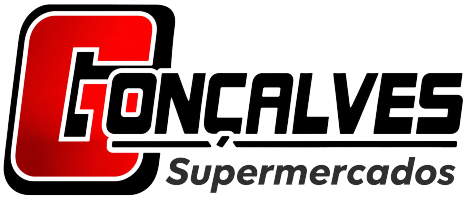
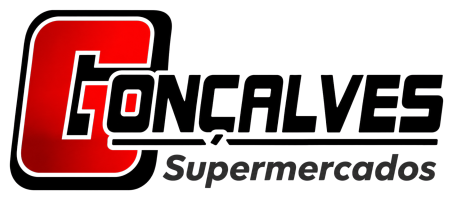
Gonçalves e Grupo NC refeitos a partir dos arquivos originais

Changed region(s): [[0.0, 0.0, 1.0, 0.99], [0.5563, 0.48, 0.5872, 0.51]]

diff --git a/index.html b/index.html
@@ -9,7 +9,7 @@
   <meta name="theme-color" content="#010E22">
   <link rel="icon" href="img/icone.png" type="image/png">
   <link rel="preload" href="fonts/inter-tight-latin-wght-normal.woff2" as="font" type="font/woff2" crossorigin>
-  <link rel="stylesheet" href="css/v2.css?v=18">
+  <link rel="stylesheet" href="css/v2.css?v=19">
   <script>document.documentElement.classList.add('js');</script>
 </head>
 <body>
@@ -94,7 +94,7 @@
       <h2 class="rotulo" id="clientes-titulo">Empresas que confiam na Hoops</h2>
       <div class="clientes__faixa">
         <div class="clientes__trilho">
-          <ul class="clientes__lista"><li style="--h:64px"><img src="img/clientes/vieira.png" alt="Vieira Supermercados" width="276" height="104" decoding="async"><img class="cor" src="img/clientes-cor/vieira.png" alt="" width="356" height="190" loading="lazy" decoding="async"></li><li style="--h:68px"><img src="img/clientes/goncalves.png" alt="Gonçalves Supermercados" width="385" height="160" decoding="async"><img class="cor" src="img/clientes-cor/goncalves.png" alt="" width="467" height="200" loading="lazy" decoding="async"></li><li style="--h:69px"><img src="img/clientes/ultra-popular.png" alt="Drogarias Ultra Popular" width="368" height="160" decoding="async"><img class="cor" src="img/clientes-cor/ultra-popular.png" alt="" width="460" height="200" loading="lazy" decoding="async"></li><li style="--h:47px"><img src="img/clientes/centrofarma.png" alt="Centrofarma" width="813" height="160" decoding="async"><img class="cor" src="img/clientes-cor/centrofarma.png" alt="" width="924" height="200" loading="lazy" decoding="async"></li><li style="--h:70px"><img src="img/clientes/macropel.png" alt="Macropel" width="360" height="160" decoding="async"><img class="cor" src="img/clientes-cor/macropel.png" alt="" width="414" height="200" loading="lazy" decoding="async"></li><li style="--h:49px"><img src="img/clientes/goulart.png" alt="Grupo Goulart Agropecuária" width="613" height="133" decoding="async"><img class="cor" src="img/clientes-cor/goulart.png" alt="" width="628" height="159" loading="lazy" decoding="async"></li><li style="--h:70px"><img src="img/clientes/ponte-alta.png" alt="Grupo Ponte Alta" width="177" height="160" decoding="async"><img class="cor" src="img/clientes-cor/ponte-alta.png" alt="" width="220" height="200" loading="lazy" decoding="async"></li><li style="--h:70px"><img src="img/clientes/jjd.png" alt="Grupo JJD Agropecuária e Transporte" width="185" height="160" decoding="async"><img class="cor" src="img/clientes-cor/jjd.png" alt="" width="231" height="200" loading="lazy" decoding="async"></li><li style="--h:70px"><img src="img/clientes/grupo-nc.png" alt="Grupo NC" width="760" height="408" decoding="async"><img class="cor" src="img/clientes-cor/grupo-nc.png" alt="" width="760" height="408" loading="lazy" decoding="async"></li><li style="--h:51px"><img src="img/clientes/guapore.png" alt="Guaporé Vidros" width="684" height="160" decoding="async"><img class="cor" src="img/clientes-cor/guapore.png" alt="" width="644" height="200" loading="lazy" decoding="async"></li><li style="--h:41px"><img src="img/clientes/vidroauto.png" alt="VidroAuto" width="1034" height="160" decoding="async"><img class="cor" src="img/clientes-cor/vidroauto.png" alt="" width="1200" height="200" loading="lazy" decoding="async"></li><li style="--h:64px"><img src="img/clientes/iz-auto.png" alt="IZ Auto Peças" width="427" height="160" decoding="async"><img class="cor" src="img/clientes-cor/iz-auto.png" alt="" width="468" height="200" loading="lazy" decoding="async"></li><li style="--h:70px"><img src="img/clientes/svi.png" alt="SVI" width="333" height="160" decoding="async"><img class="cor" src="img/clientes-cor/svi.png" alt="" width="396" height="200" loading="lazy" decoding="async"></li><li style="--h:70px"><img src="img/clientes/amaretto.png" alt="Amaretto" width="318" height="160" decoding="async"><img class="cor" src="img/clientes-cor/amaretto.png" alt="" width="380" height="200" loading="lazy" decoding="async"></li><li style="--h:61px"><img src="img/clientes/unicorp.png" alt="Unicorp" width="470" height="160" decoding="async"><img class="cor" src="img/clientes-cor/unicorp.png" alt="" width="587" height="200" loading="lazy" decoding="async"></li><li style="--h:48px"><img src="img/clientes/seglog.png" alt="Seglog Segurança Eletrônica" width="313" height="66" decoding="async"><img class="cor" src="img/clientes-cor/seglog.png" alt="" width="329" height="82" loading="lazy" decoding="async"></li></ul><ul class="clientes__lista" aria-hidden="true"><li style="--h:64px"><img src="img/clientes/vieira.png" alt="" width="276" height="104" decoding="async"><img class="cor" src="img/clientes-cor/vieira.png" alt="" width="356" height="190" loading="lazy" decoding="async"></li><li style="--h:68px"><img src="img/clientes/goncalves.png" alt="" width="385" height="160" decoding="async"><img class="cor" src="img/clientes-cor/goncalves.png" alt="" width="467" height="200" loading="lazy" decoding="async"></li><li style="--h:69px"><img src="img/clientes/ultra-popular.png" alt="" width="368" height="160" decoding="async"><img class="cor" src="img/clientes-cor/ultra-popular.png" alt="" width="460" height="200" loading="lazy" decoding="async"></li><li style="--h:47px"><img src="img/clientes/centrofarma.png" alt="" width="813" height="160" decoding="async"><img class="cor" src="img/clientes-cor/centrofarma.png" alt="" width="924" height="200" loading="lazy" decoding="async"></li><li style="--h:70px"><img src="img/clientes/macropel.png" alt="" width="360" height="160" decoding="async"><img class="cor" src="img/clientes-cor/macropel.png" alt="" width="414" height="200" loading="lazy" decoding="async"></li><li style="--h:49px"><img src="img/clientes/goulart.png" alt="" width="613" height="133" decoding="async"><img class="cor" src="img/clientes-cor/goulart.png" alt="" width="628" height="159" loading="lazy" decoding="async"></li><li style="--h:70px"><img src="img/clientes/ponte-alta.png" alt="" width="177" height="160" decoding="async"><img class="cor" src="img/clientes-cor/ponte-alta.png" alt="" width="220" height="200" loading="lazy" decoding="async"></li><li style="--h:70px"><img src="img/clientes/jjd.png" alt="" width="185" height="160" decoding="async"><img class="cor" src="img/clientes-cor/jjd.png" alt="" width="231" height="200" loading="lazy" decoding="async"></li><li style="--h:70px"><img src="img/clientes/grupo-nc.png" alt="" width="760" height="408" decoding="async"><img class="cor" src="img/clientes-cor/grupo-nc.png" alt="" width="760" height="408" loading="lazy" decoding="async"></li><li style="--h:51px"><img src="img/clientes/guapore.png" alt="" width="684" height="160" decoding="async"><img class="cor" src="img/clientes-cor/guapore.png" alt="" width="644" height="200" loading="lazy" decoding="async"></li><li style="--h:41px"><img src="img/clientes/vidroauto.png" alt="" width="1034" height="160" decoding="async"><img class="cor" src="img/clientes-cor/vidroauto.png" alt="" width="1200" height="200" loading="lazy" decoding="async"></li><li style="--h:64px"><img src="img/clientes/iz-auto.png" alt="" width="427" height="160" decoding="async"><img class="cor" src="img/clientes-cor/iz-auto.png" alt="" width="468" height="200" loading="lazy" decoding="async"></li><li style="--h:70px"><img src="img/clientes/svi.png" alt="" width="333" height="160" decoding="async"><img class="cor" src="img/clientes-cor/svi.png" alt="" width="396" height="200" loading="lazy" decoding="async"></li><li style="--h:70px"><img src="img/clientes/amaretto.png" alt="" width="318" height="160" decoding="async"><img class="cor" src="img/clientes-cor/amaretto.png" alt="" width="380" height="200" loading="lazy" decoding="async"></li><li style="--h:61px"><img src="img/clientes/unicorp.png" alt="" width="470" height="160" decoding="async"><img class="cor" src="img/clientes-cor/unicorp.png" alt="" width="587" height="200" loading="lazy" decoding="async"></li><li style="--h:48px"><img src="img/clientes/seglog.png" alt="" width="313" height="66" decoding="async"><img class="cor" src="img/clientes-cor/seglog.png" alt="" width="329" height="82" loading="lazy" decoding="async"></li></ul>
+          <ul class="clientes__lista"><li style="--h:64px"><img src="img/clientes/vieira.png" alt="Vieira Supermercados" width="276" height="104" decoding="async"><img class="cor" src="img/clientes-cor/vieira.png" alt="" width="356" height="190" loading="lazy" decoding="async"></li><li style="--h:68px"><img src="img/clientes/goncalves.png" alt="Gonçalves Supermercados" width="384" height="160" decoding="async"><img class="cor" src="img/clientes-cor/goncalves.png" alt="" width="453" height="200" loading="lazy" decoding="async"></li><li style="--h:69px"><img src="img/clientes/ultra-popular.png" alt="Drogarias Ultra Popular" width="368" height="160" decoding="async"><img class="cor" src="img/clientes-cor/ultra-popular.png" alt="" width="460" height="200" loading="lazy" decoding="async"></li><li style="--h:47px"><img src="img/clientes/centrofarma.png" alt="Centrofarma" width="813" height="160" decoding="async"><img class="cor" src="img/clientes-cor/centrofarma.png" alt="" width="924" height="200" loading="lazy" decoding="async"></li><li style="--h:70px"><img src="img/clientes/macropel.png" alt="Macropel" width="360" height="160" decoding="async"><img class="cor" src="img/clientes-cor/macropel.png" alt="" width="414" height="200" loading="lazy" decoding="async"></li><li style="--h:49px"><img src="img/clientes/goulart.png" alt="Grupo Goulart Agropecuária" width="613" height="133" decoding="async"><img class="cor" src="img/clientes-cor/goulart.png" alt="" width="628" height="159" loading="lazy" decoding="async"></li><li style="--h:70px"><img src="img/clientes/ponte-alta.png" alt="Grupo Ponte Alta" width="177" height="160" decoding="async"><img class="cor" src="img/clientes-cor/ponte-alta.png" alt="" width="220" height="200" loading="lazy" decoding="async"></li><li style="--h:70px"><img src="img/clientes/jjd.png" alt="Grupo JJD Agropecuária e Transporte" width="185" height="160" decoding="async"><img class="cor" src="img/clientes-cor/jjd.png" alt="" width="231" height="200" loading="lazy" decoding="async"></li><li style="--h:70px"><img src="img/clientes/grupo-nc.png" alt="Grupo NC" width="289" height="160" decoding="async"><img class="cor" src="img/clientes-cor/grupo-nc.png" alt="" width="347" height="200" loading="lazy" decoding="async"></li><li style="--h:51px"><img src="img/clientes/guapore.png" alt="Guaporé Vidros" width="684" height="160" decoding="async"><img class="cor" src="img/clientes-cor/guapore.png" alt="" width="644" height="200" loading="lazy" decoding="async"></li><li style="--h:41px"><img src="img/clientes/vidroauto.png" alt="VidroAuto" width="1034" height="160" decoding="async"><img class="cor" src="img/clientes-cor/vidroauto.png" alt="" width="1200" height="200" loading="lazy" decoding="async"></li><li style="--h:64px"><img src="img/clientes/iz-auto.png" alt="IZ Auto Peças" width="427" height="160" decoding="async"><img class="cor" src="img/clientes-cor/iz-auto.png" alt="" width="468" height="200" loading="lazy" decoding="async"></li><li style="--h:70px"><img src="img/clientes/svi.png" alt="SVI" width="333" height="160" decoding="async"><img class="cor" src="img/clientes-cor/svi.png" alt="" width="396" height="200" loading="lazy" decoding="async"></li><li style="--h:70px"><img src="img/clientes/amaretto.png" alt="Amaretto" width="318" height="160" decoding="async"><img class="cor" src="img/clientes-cor/amaretto.png" alt="" width="380" height="200" loading="lazy" decoding="async"></li><li style="--h:61px"><img src="img/clientes/unicorp.png" alt="Unicorp" width="470" height="160" decoding="async"><img class="cor" src="img/clientes-cor/unicorp.png" alt="" width="587" height="200" loading="lazy" decoding="async"></li><li style="--h:48px"><img src="img/clientes/seglog.png" alt="Seglog Segurança Eletrônica" width="313" height="66" decoding="async"><img class="cor" src="img/clientes-cor/seglog.png" alt="" width="329" height="82" loading="lazy" decoding="async"></li></ul><ul class="clientes__lista" aria-hidden="true"><li style="--h:64px"><img src="img/clientes/vieira.png" alt="" width="276" height="104" decoding="async"><img class="cor" src="img/clientes-cor/vieira.png" alt="" width="356" height="190" loading="lazy" decoding="async"></li><li style="--h:68px"><img src="img/clientes/goncalves.png" alt="" width="384" height="160" decoding="async"><img class="cor" src="img/clientes-cor/goncalves.png" alt="" width="453" height="200" loading="lazy" decoding="async"></li><li style="--h:69px"><img src="img/clientes/ultra-popular.png" alt="" width="368" height="160" decoding="async"><img class="cor" src="img/clientes-cor/ultra-popular.png" alt="" width="460" height="200" loading="lazy" decoding="async"></li><li style="--h:47px"><img src="img/clientes/centrofarma.png" alt="" width="813" height="160" decoding="async"><img class="cor" src="img/clientes-cor/centrofarma.png" alt="" width="924" height="200" loading="lazy" decoding="async"></li><li style="--h:70px"><img src="img/clientes/macropel.png" alt="" width="360" height="160" decoding="async"><img class="cor" src="img/clientes-cor/macropel.png" alt="" width="414" height="200" loading="lazy" decoding="async"></li><li style="--h:49px"><img src="img/clientes/goulart.png" alt="" width="613" height="133" decoding="async"><img class="cor" src="img/clientes-cor/goulart.png" alt="" width="628" height="159" loading="lazy" decoding="async"></li><li style="--h:70px"><img src="img/clientes/ponte-alta.png" alt="" width="177" height="160" decoding="async"><img class="cor" src="img/clientes-cor/ponte-alta.png" alt="" width="220" height="200" loading="lazy" decoding="async"></li><li style="--h:70px"><img src="img/clientes/jjd.png" alt="" width="185" height="160" decoding="async"><img class="cor" src="img/clientes-cor/jjd.png" alt="" width="231" height="200" loading="lazy" decoding="async"></li><li style="--h:70px"><img src="img/clientes/grupo-nc.png" alt="" width="289" height="160" decoding="async"><img class="cor" src="img/clientes-cor/grupo-nc.png" alt="" width="347" height="200" loading="lazy" decoding="async"></li><li style="--h:51px"><img src="img/clientes/guapore.png" alt="" width="684" height="160" decoding="async"><img class="cor" src="img/clientes-cor/guapore.png" alt="" width="644" height="200" loading="lazy" decoding="async"></li><li style="--h:41px"><img src="img/clientes/vidroauto.png" alt="" width="1034" height="160" decoding="async"><img class="cor" src="img/clientes-cor/vidroauto.png" alt="" width="1200" height="200" loading="lazy" decoding="async"></li><li style="--h:64px"><img src="img/clientes/iz-auto.png" alt="" width="427" height="160" decoding="async"><img class="cor" src="img/clientes-cor/iz-auto.png" alt="" width="468" height="200" loading="lazy" decoding="async"></li><li style="--h:70px"><img src="img/clientes/svi.png" alt="" width="333" height="160" decoding="async"><img class="cor" src="img/clientes-cor/svi.png" alt="" width="396" height="200" loading="lazy" decoding="async"></li><li style="--h:70px"><img src="img/clientes/amaretto.png" alt="" width="318" height="160" decoding="async"><img class="cor" src="img/clientes-cor/amaretto.png" alt="" width="380" height="200" loading="lazy" decoding="async"></li><li style="--h:61px"><img src="img/clientes/unicorp.png" alt="" width="470" height="160" decoding="async"><img class="cor" src="img/clientes-cor/unicorp.png" alt="" width="587" height="200" loading="lazy" decoding="async"></li><li style="--h:48px"><img src="img/clientes/seglog.png" alt="" width="313" height="66" decoding="async"><img class="cor" src="img/clientes-cor/seglog.png" alt="" width="329" height="82" loading="lazy" decoding="async"></li></ul>
         </div>
       </div>
       <div class="moldura">
@@ -366,6 +366,6 @@
 
   <a class="wa-flutuante" href="https://wa.me/5566999799434?text=Ol%C3%A1!%20Vim%20do%20site%20e%20quero%20agendar%20um%20diagn%C3%B3stico%20de%20TI." target="_blank" rel="noopener" aria-label="Falar com a Hoops no WhatsApp"><svg viewBox="0 0 24 24" aria-hidden="true"><path d="M12 2a10 10 0 0 0-8.6 15.1L2 22l5-1.3A10 10 0 1 0 12 2Zm5.3 14.1c-.2.6-1.3 1.2-1.8 1.2-.5.1-1 .2-3.3-.7-2.8-1.1-4.6-4-4.7-4.2-.1-.2-1.1-1.5-1.1-2.9s.7-2 1-2.3c.2-.3.5-.3.7-.3h.5c.2 0 .4 0 .6.5l.8 2c.1.2.1.4 0 .5l-.3.5-.4.4c-.1.2-.3.3-.1.6.2.3.8 1.3 1.7 2.1 1.2 1 2.1 1.3 2.4 1.5.3.1.5.1.6-.1l.9-1.1c.2-.3.4-.2.6-.1l1.9.9c.3.1.5.2.5.3.1.2.1.7-.2 1.3Z"/></svg></a>
 
-  <script src="js/v2.js?v=18" defer></script>
+  <script src="js/v2.js?v=19" defer></script>
 </body>
 </html>

diff --git a/industria.html b/industria.html
@@ -9,7 +9,7 @@
   <meta name="theme-color" content="#010E22">
   <link rel="icon" href="img/icone.png" type="image/png">
   <link rel="preload" href="fonts/inter-tight-latin-wght-normal.woff2" as="font" type="font/woff2" crossorigin>
-  <link rel="stylesheet" href="css/v2.css?v=18">
+  <link rel="stylesheet" href="css/v2.css?v=19">
   <script>document.documentElement.classList.add('js');</script>
 </head>
 <body class="pagina-setor">
@@ -193,6 +193,6 @@
 
   <a class="wa-flutuante" href="https://wa.me/5566999799434?text=Ol%C3%A1!%20Vim%20do%20site%20e%20quero%20um%20diagn%C3%B3stico%20de%20TI%20para%20a%20minha%20ind%C3%BAstria." target="_blank" rel="noopener" aria-label="Falar com a Hoops no WhatsApp"><svg viewBox="0 0 24 24" aria-hidden="true"><path d="M12 2a10 10 0 0 0-8.6 15.1L2 22l5-1.3A10 10 0 1 0 12 2Zm5.3 14.1c-.2.6-1.3 1.2-1.8 1.2-.5.1-1 .2-3.3-.7-2.8-1.1-4.6-4-4.7-4.2-.1-.2-1.1-1.5-1.1-2.9s.7-2 1-2.3c.2-.3.5-.3.7-.3h.5c.2 0 .4 0 .6.5l.8 2c.1.2.1.4 0 .5l-.3.5-.4.4c-.1.2-.3.3-.1.6.2.3.8 1.3 1.7 2.1 1.2 1 2.1 1.3 2.4 1.5.3.1.5.1.6-.1l.9-1.1c.2-.3.4-.2.6-.1l1.9.9c.3.1.5.2.5.3.1.2.1.7-.2 1.3Z"/></svg></a>
 
-  <script src="js/v2.js?v=18" defer></script>
+  <script src="js/v2.js?v=19" defer></script>
 </body>
 </html>

diff --git a/contabilidades.html b/contabilidades.html
@@ -9,7 +9,7 @@
   <meta name="theme-color" content="#010E22">
   <link rel="icon" href="img/icone.png" type="image/png">
   <link rel="preload" href="fonts/inter-tight-latin-wght-normal.woff2" as="font" type="font/woff2" crossorigin>
-  <link rel="stylesheet" href="css/v2.css?v=18">
+  <link rel="stylesheet" href="css/v2.css?v=19">
   <script>document.documentElement.classList.add('js');</script>
 </head>
 <body class="pagina-setor">
@@ -177,6 +177,6 @@
 
   <a class="wa-flutuante" href="https://wa.me/5566999799434?text=Ol%C3%A1!%20Vim%20do%20site%20e%20quero%20um%20diagn%C3%B3stico%20de%20TI%20para%20o%20meu%20escrit%C3%B3rio." target="_blank" rel="noopener" aria-label="Falar com a Hoops no WhatsApp"><svg viewBox="0 0 24 24" aria-hidden="true"><path d="M12 2a10 10 0 0 0-8.6 15.1L2 22l5-1.3A10 10 0 1 0 12 2Zm5.3 14.1c-.2.6-1.3 1.2-1.8 1.2-.5.1-1 .2-3.3-.7-2.8-1.1-4.6-4-4.7-4.2-.1-.2-1.1-1.5-1.1-2.9s.7-2 1-2.3c.2-.3.5-.3.7-.3h.5c.2 0 .4 0 .6.5l.8 2c.1.2.1.4 0 .5l-.3.5-.4.4c-.1.2-.3.3-.1.6.2.3.8 1.3 1.7 2.1 1.2 1 2.1 1.3 2.4 1.5.3.1.5.1.6-.1l.9-1.1c.2-.3.4-.2.6-.1l1.9.9c.3.1.5.2.5.3.1.2.1.7-.2 1.3Z"/></svg></a>
 
-  <script src="js/v2.js?v=18" defer></script>
+  <script src="js/v2.js?v=19" defer></script>
 </body>
 </html>

diff --git a/varejo.html b/varejo.html
@@ -9,7 +9,7 @@
   <meta name="theme-color" content="#010E22">
   <link rel="icon" href="img/icone.png" type="image/png">
   <link rel="preload" href="fonts/inter-tight-latin-wght-normal.woff2" as="font" type="font/woff2" crossorigin>
-  <link rel="stylesheet" href="css/v2.css?v=18">
+  <link rel="stylesheet" href="css/v2.css?v=19">
   <script>document.documentElement.classList.add('js');</script>
 </head>
 <body class="pagina-setor">
@@ -177,6 +177,6 @@
 
   <a class="wa-flutuante" href="https://wa.me/5566999799434?text=Ol%C3%A1!%20Vim%20do%20site%20e%20quero%20um%20diagn%C3%B3stico%20de%20TI%20para%20o%20meu%20com%C3%A9rcio." target="_blank" rel="noopener" aria-label="Falar com a Hoops no WhatsApp"><svg viewBox="0 0 24 24" aria-hidden="true"><path d="M12 2a10 10 0 0 0-8.6 15.1L2 22l5-1.3A10 10 0 1 0 12 2Zm5.3 14.1c-.2.6-1.3 1.2-1.8 1.2-.5.1-1 .2-3.3-.7-2.8-1.1-4.6-4-4.7-4.2-.1-.2-1.1-1.5-1.1-2.9s.7-2 1-2.3c.2-.3.5-.3.7-.3h.5c.2 0 .4 0 .6.5l.8 2c.1.2.1.4 0 .5l-.3.5-.4.4c-.1.2-.3.3-.1.6.2.3.8 1.3 1.7 2.1 1.2 1 2.1 1.3 2.4 1.5.3.1.5.1.6-.1l.9-1.1c.2-.3.4-.2.6-.1l1.9.9c.3.1.5.2.5.3.1.2.1.7-.2 1.3Z"/></svg></a>
 
-  <script src="js/v2.js?v=18" defer></script>
+  <script src="js/v2.js?v=19" defer></script>
 </body>
 </html>
